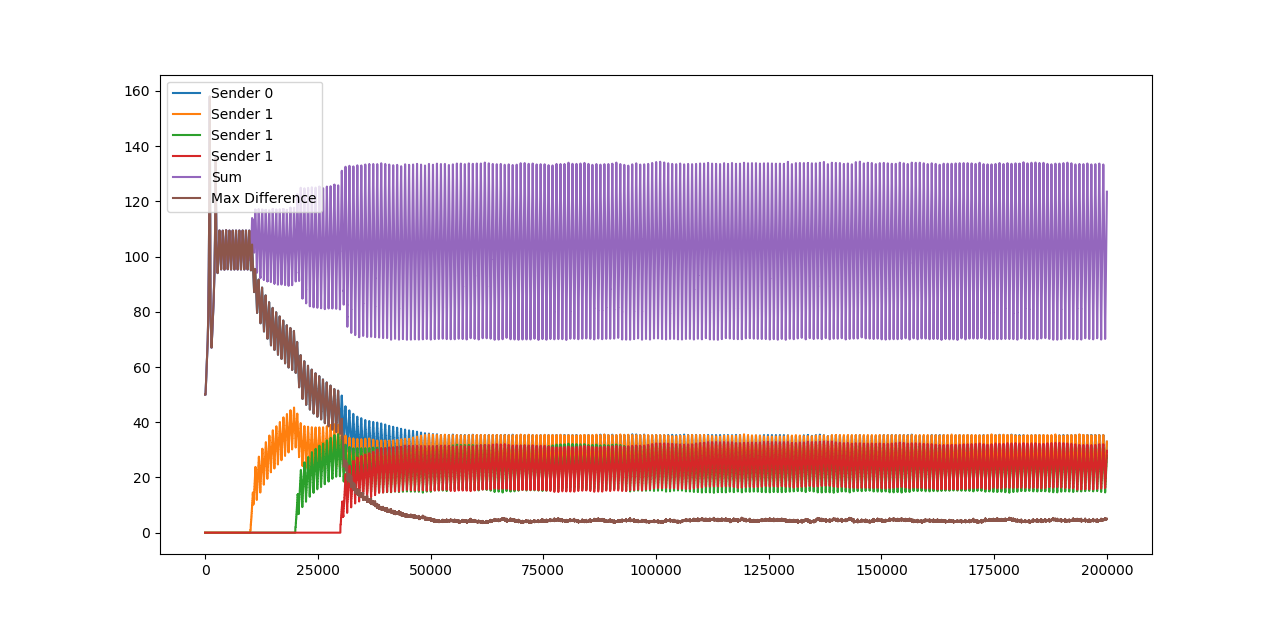
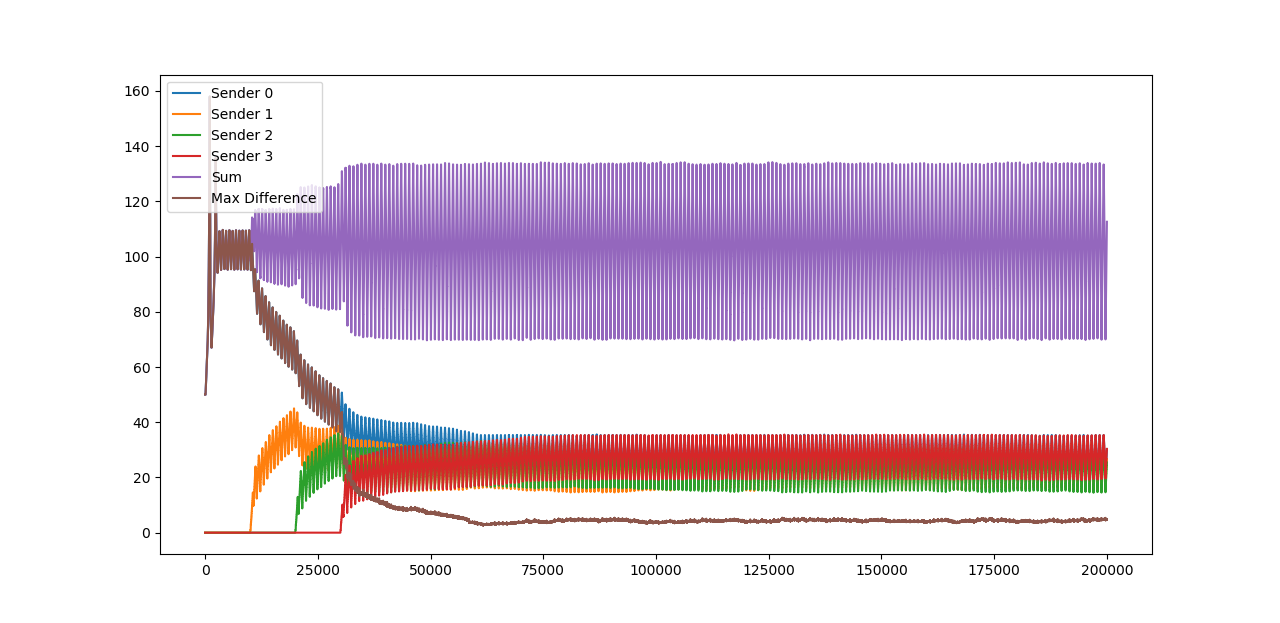
Some more graphs

diff --git a/Simulator.py b/Simulator.py
@@ -41,7 +41,7 @@ class Simulator:
 
 if __name__ == "__main__":
     for i in range(1):
-        time = 200000
+        time = 100000
         t1 = 10000
         t2 = time
         buff = 1000
@@ -51,7 +51,7 @@ if __name__ == "__main__":
         long = 5000
 
         sim = Simulator(buff, serve, ttl, num_senders, long, "logfile")
-        extras = [Sender(sim, sim.dest, long, ttl, 1, i) for i in range(1, 4)]
+        extras = [Sender(sim, sim.dest, long, ttl, i, 1) for i in range(1, 3)]
 
         for i in range(len(extras)):
             for j in range(t1):
